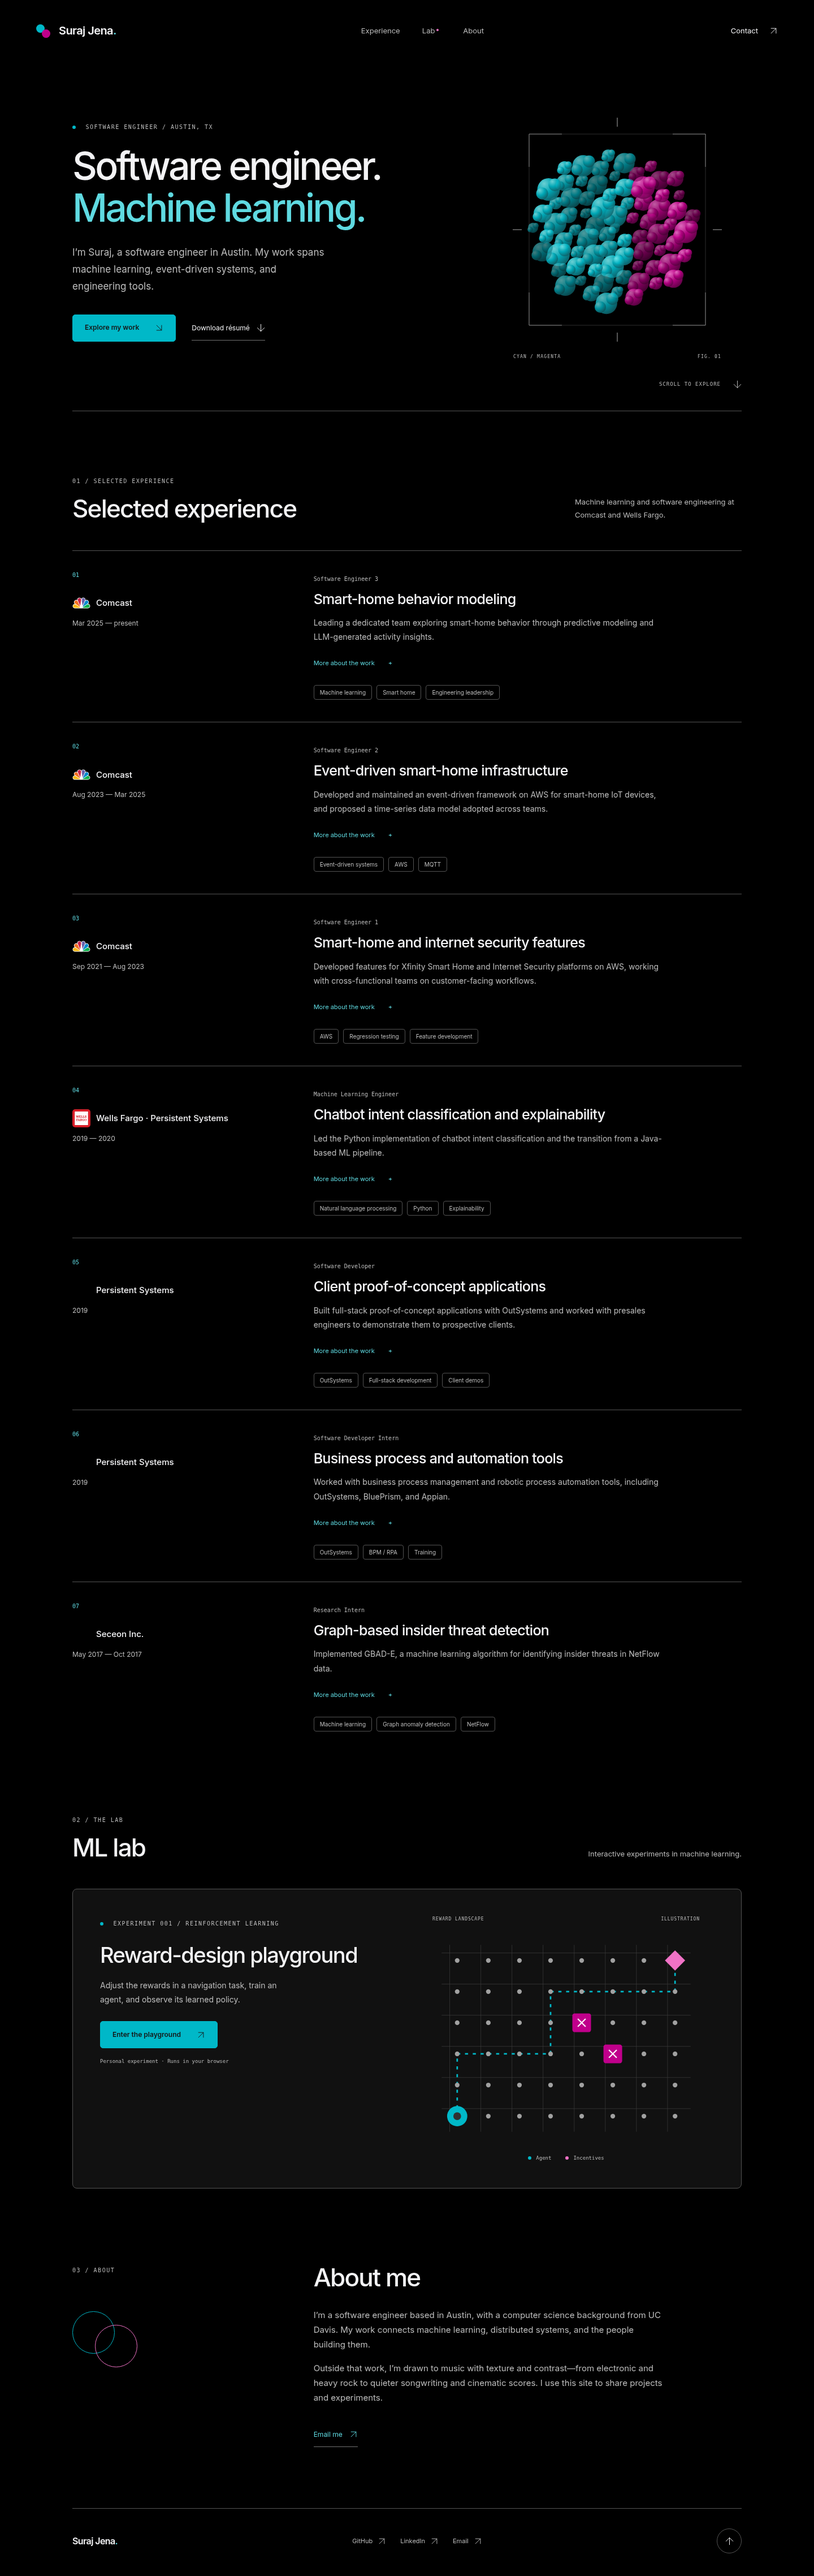
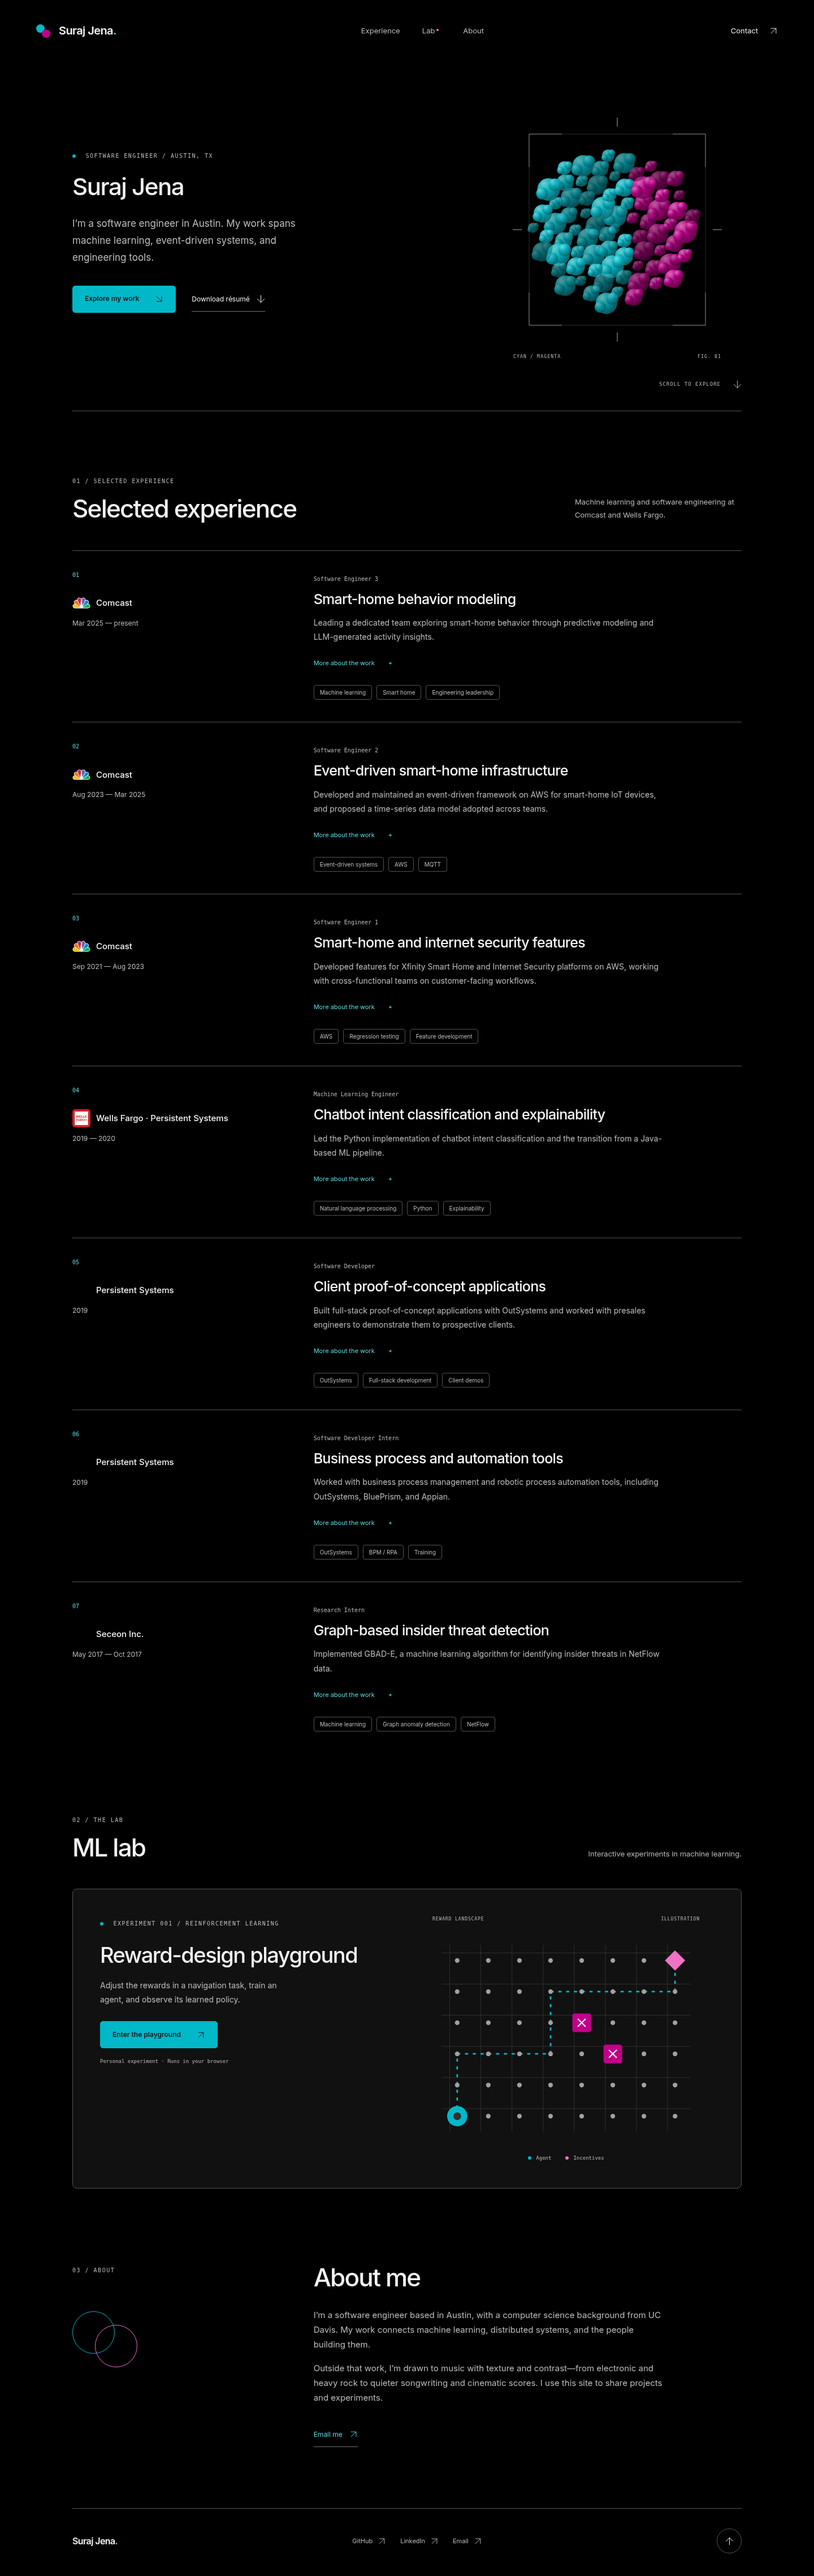
Replace hero tagline with a restrained name heading

Changed region(s): [[0.0938, 0.0624, 0.4688, 0.1559]]

diff --git a/src/styles.css b/src/styles.css
@@ -202,9 +202,9 @@ footer nav {
   padding-bottom: 116px;
 }
 .hero h1 {
-  font-size: clamp(42px, 4.8vw, 68px);
+  font-size: clamp(32px, 3vw, 42px);
   line-height: 1.09;
-  letter-spacing: -3.8px;
+  letter-spacing: -1.5px;
   margin: 24px 0 28px;
   white-space: nowrap;
 }
@@ -672,10 +672,6 @@ footer nav a {
   .site-header {
     width: calc(100% - 64px);
   }
-  .hero h1 {
-    font-size: 50px;
-    letter-spacing: -2.8px;
-  }
   .hero {
     grid-template-columns: 1.45fr 1fr;
     gap: 0;
@@ -720,10 +716,6 @@ footer nav a {
     grid-template-columns: 1fr;
     gap: 32px;
     padding-bottom: 100px;
-  }
-  .hero h1 {
-    font-size: clamp(40px, 7.5vw, 60px);
-    letter-spacing: -2.8px;
   }
   .hero-art {
     position: absolute;
@@ -843,8 +835,8 @@ footer nav a {
     align-items: start;
   }
   .hero h1 {
-    font-size: 39px;
-    letter-spacing: -2.3px;
+    font-size: 32px;
+    letter-spacing: -1px;
     white-space: normal;
     line-height: 1.12;
     margin: 22px 0;

diff --git a/tests/site.spec.ts b/tests/site.spec.ts
@@ -4,7 +4,7 @@ import AxeBuilder from '@axe-core/playwright';
 test('personal introduction, navigation, contacts, and resume', async ({page,request})=>{
   await page.goto('/');
   await expect(page).toHaveTitle(/Suraj Jena/);
-  await expect(page.getByRole('heading',{level:1})).toContainText('Software engineer.');
+  await expect(page.getByRole('heading',{level:1})).toHaveText('Suraj Jena');
   await page.getByRole('navigation',{name:'Main navigation'}).getByRole('link',{name:'Experience'}).click();
   await expect(page).toHaveURL(/#experience/);
   await page.getByRole('navigation',{name:'Main navigation'}).getByRole('link',{name:'About'}).click();

diff --git a/src/App.svelte b/src/App.svelte
@@ -25,12 +25,9 @@
       <div class="eyebrow hero-eyebrow">
         <span class="tiny-dot"></span> SOFTWARE ENGINEER / AUSTIN, TX
       </div>
-      <h1 id="hero-title">
-        Software engineer.<br />
-        <span class="cyan-text">Machine learning.</span>
-      </h1>
+      <h1 id="hero-title">Suraj Jena</h1>
       <p class="hero-description">
-        I’m Suraj, a software engineer in Austin. My work spans machine learning,
+        I’m a software engineer in Austin. My work spans machine learning,
         event-driven systems, and engineering tools.
       </p>
       <div class="hero-actions">
